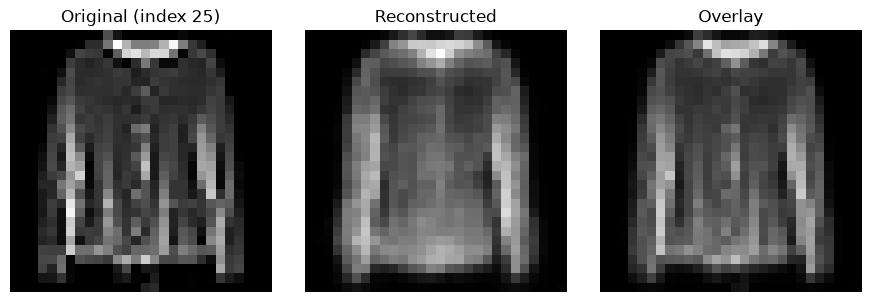
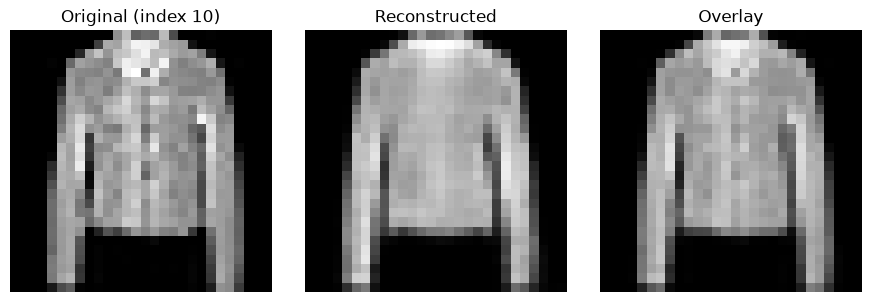
final: organize repo, add terminal screenshot, update laporan with name+NIM+results

diff --git a/laporan.tex b/laporan.tex
@@ -9,14 +9,14 @@
 \usepackage{caption}
 
 \geometry{top=1.8cm, bottom=1.8cm, left=2cm, right=2cm}
-\setstretch{0.95}
-\parskip=3pt
+\setstretch{0.88}
+\parskip=2pt
 \parindent=0pt
 \small
 
 \title{\textbf{Laporan Tugas Autoencoder}\\[4pt]
 \large Training di Kaggle dan Rekonstruksi Citra Fashion-MNIST melalui Decoder}
-\author{Nama: [Nama Lengkap] \\ NIM: [NIM]}
+\author{Nama: Fatih Jawwad Al Mumtaz \\ NIM: 452024611047}
 \date{}
 
 \begin{document}
@@ -41,8 +41,8 @@ Gambar 1 menunjukkan perbandingan training loss dari ketiga variasi latent dimen
 
 \begin{figure}[!ht]
 \centering
-\includegraphics[width=0.85\textwidth]{results/training_loss_comparison.png}
-\caption{Perbandingan training loss antar latent dimension}
+\includegraphics[width=0.75\textwidth]{results/training_loss_comparison.png}
+\caption{Perbandingan training loss antar latent dimension}\vspace{-8pt}
 \end{figure}
 
 \subsection{Perbandingan Hasil Rekonstruksi}
@@ -51,7 +51,7 @@ Gambar 2 menampilkan perbandingan citra asli dengan hasil rekonstruksi untuk set
 
 \begin{figure}[!ht]
 \centering
-\includegraphics[width=0.9\textwidth]{results/reconstruction_comparison.png}
+\includegraphics[width=0.82\textwidth]{results/reconstruction_comparison.png}
 \caption{Perbandingan rekonstruksi antar latent dimension}
 \end{figure}
 
@@ -104,7 +104,11 @@ python generate_from_decoder.py --decoder models/decoder_fashion_mnist_dim8.pth
 
 \subsection{Screenshot Terminal}
 
-[Gambar screenshot terminal akan ditempatkan di sini setelah proses training dan pengujian selesai.]
+\begin{figure}[!ht]
+\centering
+\includegraphics[width=0.75\textwidth]{results/terminal_screenshot.png}
+\caption{Screenshot proses rekonstruksi melalui terminal}
+\end{figure}
 
 \section{Analisis}
 